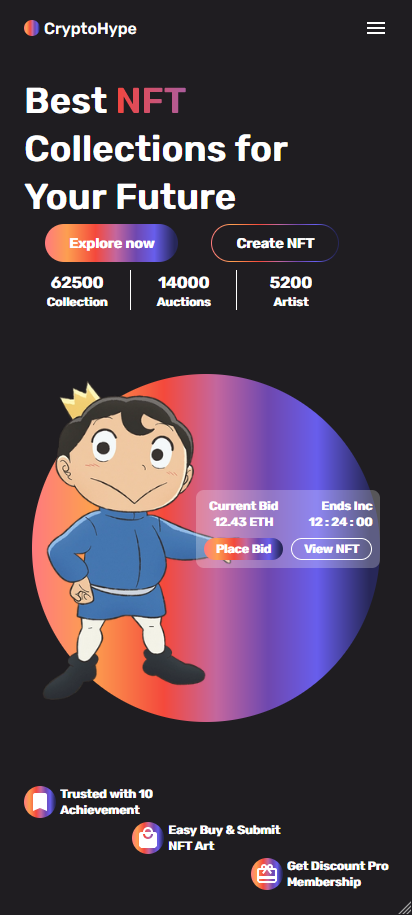
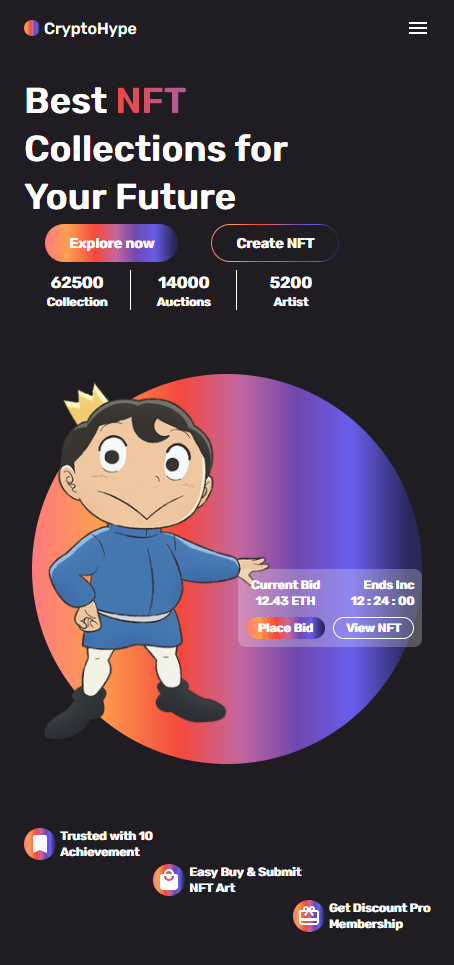
fix responsive

diff --git a/src/LandingNFT/LandingNFT.tsx b/src/LandingNFT/LandingNFT.tsx
@@ -95,7 +95,7 @@ function LandingNFT() {
           >
             <div className='absolute top-0 left-0 bg-contain bg-no-repeat h-full w-2/3' style={{ backgroundImage: `url('${bojji}')` }}></div>
             {/* CARD */}
-            <div className='bg-white bg-opacity-25 rounded-lg flex justify-between items-start p-2 z-0 absolute right-0 top-1/3 sm:top-1/2 text-xs gap-2'>
+            <div className='bg-white bg-opacity-25 rounded-lg flex justify-between items-start p-2 z-0 absolute right-0 top-1/2 text-xs gap-2'>
               <div className='flex flex-col items-center'>
                 <span className='font-semibold'>Current Bid</span>
                 <span className='font-bold'>12.43 ETH</span>
